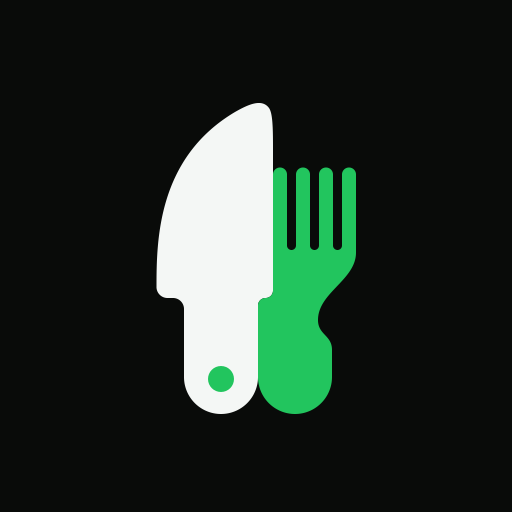
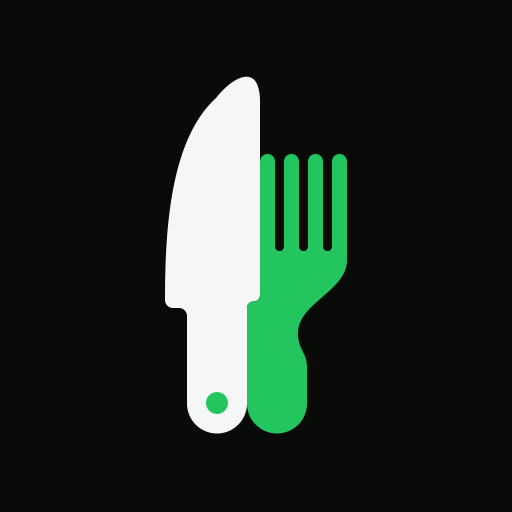
Refine SousKit mark: taller chef's-knife blade, larger on canvas
The blade was reading as a paddle/cleaver at 391x233 (aspect 1.68). It is now
463x190 (aspect 2.44): the cutting edge stays near-vertical through the lower
half and sweeps into the tip over the top third, with a tighter nose.

Scaling the whole composition up takes vertical padding from 20.0%/19.1% to
14.9%/15.3% so the mark fills a home-screen icon. Seam, handle-bottom
alignment, rivet placement, tine count and brand colors are unchanged.

Changed region(s): [[0.2812, 0.125, 0.7188, 0.875], [0.625, 0.5625, 0.6562, 0.5938]]

diff --git a/mobile/assets/images/ICON_BRIEF.md b/mobile/assets/images/ICON_BRIEF.md
@@ -1,0 +1,32 @@
+# SousKit mark brief — nested knife + fork
+
+Recreate as original SVG (do not raster-trace any PNG). Match the composition of the reference mock the user provided.
+
+## Composition (from reference)
+
+- Solid near-black square canvas.
+- Two utensils upright, side-by-side, nested into one silhouette:
+  - **Left: chef’s knife** in soft off-white.
+  - **Right: dinner fork** in brand green.
+- Fork’s left edge seats into a recess / step on the knife’s right side (blade→handle transition). Shared boundary — one continuous inner seam, not a gap.
+- Fork handle bottom aligns with knife handle bottom.
+- Fork tines reach roughly **2/3** up the knife blade height.
+- Knife outer (left) edge: smooth elegant curve to a slightly rounded tip; inner (right) blade edge mostly straight.
+- Knife handle: straight sides, fully rounded bottom; small **circular rivet** near bottom of handle filled with the same green as the fork.
+- Fork: **four** equal-width tines with rounded tops; tines join a base that tapers into a thinner neck, then a straight handle with rounded base matching the knife.
+- All terminal ends soft-rounded. Flat fills only — no strokes, shadows, gradients, text, or extra ornaments.
+
+## Brand colors (use these, not pure #fff / Apple green)
+
+| Role | Hex |
+|------|-----|
+| Background | `#090b09` |
+| Knife (off-white) | `#f4f7f5` |
+| Fork + rivet | `#22c55e` |
+
+## Technical
+
+- ViewBox `0 0 1024 1024` (or `0 0 512 512` scaled equivalently).
+- Mark centered; ~18–22% padding from edges (iOS safe area).
+- Prefer `<path>` geometry; keep file tidy and editable.
+- Output path: `mobile/assets/images/souskit-mark.svg`
